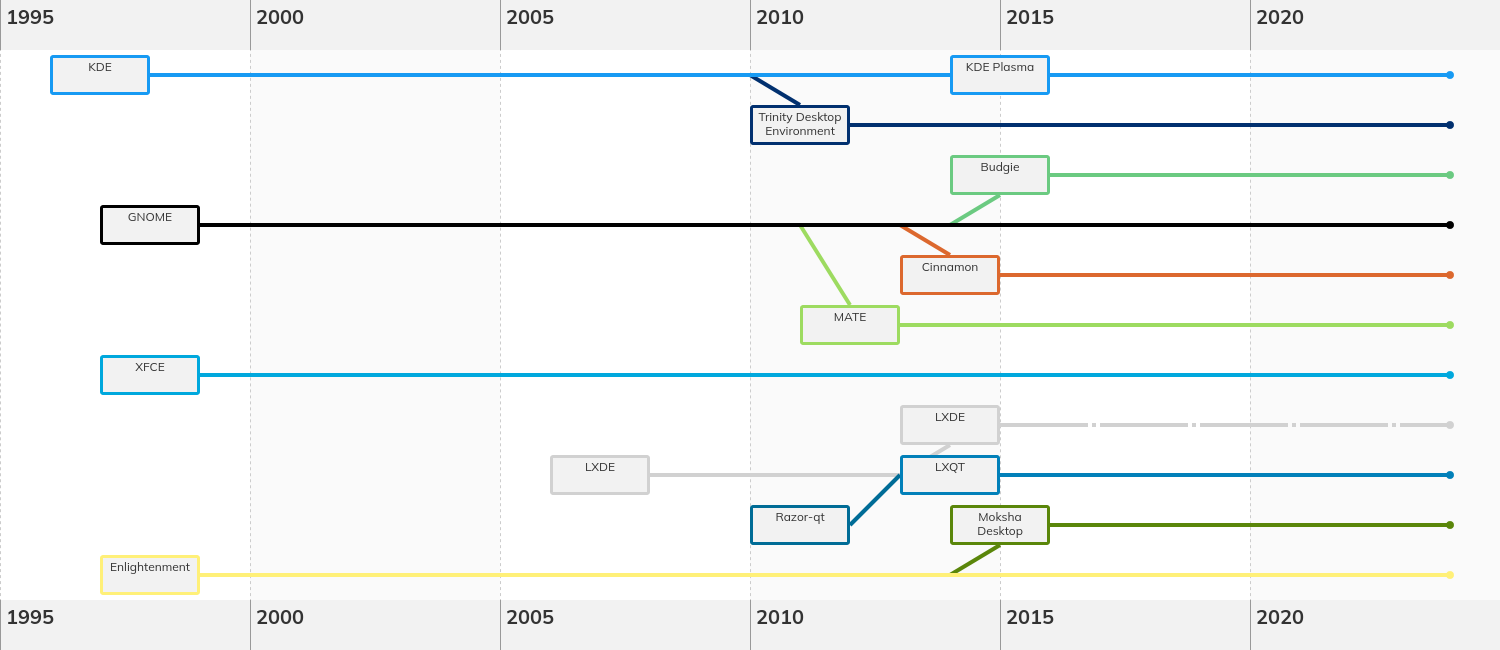
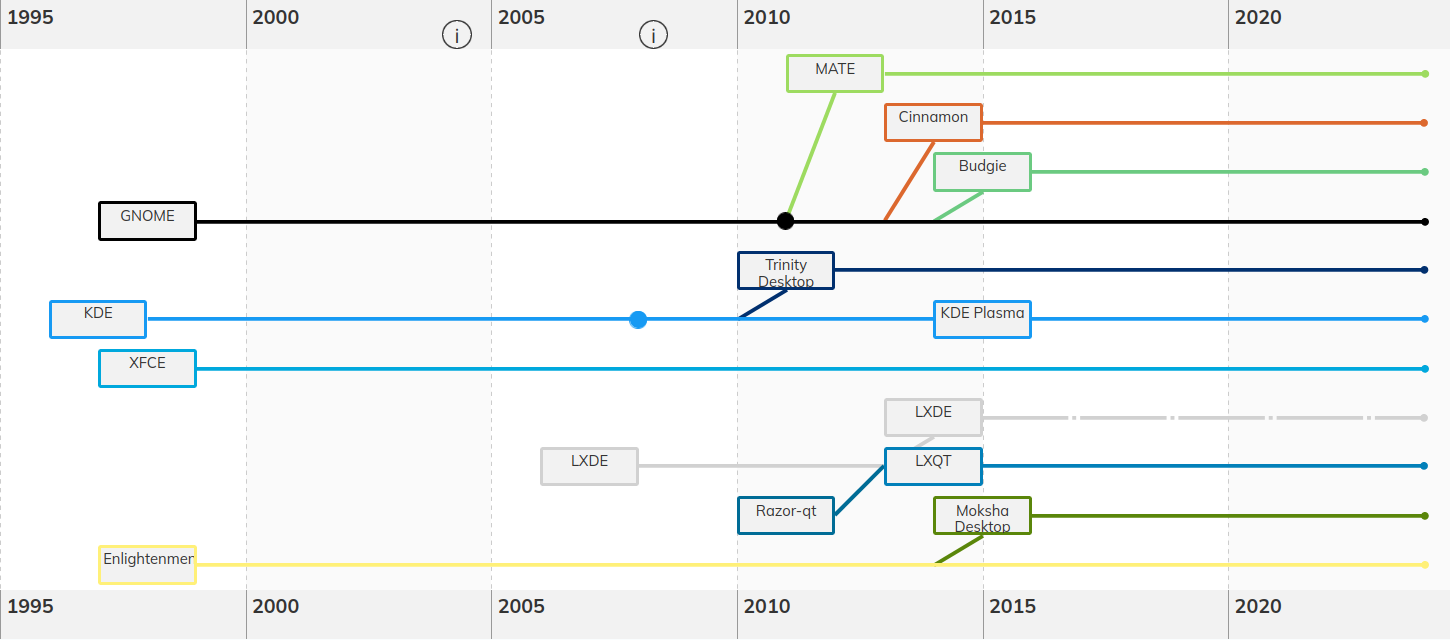
docs: update documentation with events; minor edits

diff --git a/README.md b/README.md
@@ -9,36 +9,39 @@ To use the timeline:
 * Include [`timeline.min.js`](dist/timeline.min.js) and [`timeline.min.css`](dist/timeline.min.js) in your document.
 * Optionally include [`timeline-dark.min.js`](dist/timeline-dark.min.js) to enable the default [dark mode](#dark-mode).
 * Add a `<div>` with `id="diagram"` to your HTML.
-* Add your timeline entries as `<div>` elements within `div#diagram`, with the appropriate `data-` attributes (see [HTML](#html) below).
+* Add your timeline entries and events as `<div>` elements within `div#diagram`, with the appropriate `data-` attributes (see [HTML](#html) below).
 * Instantiate a new Timeline in JS, and call the `create()` method on it.
 
-### Examples
+### Example
 
 Here is an example showing the development of Linux Desktop Environments since the mid-1990s.
 
-Entries are created using HTML `data` attributes, which determine their position and connections when the timeline is instantiated.
+Entries are created using HTML `data` attributes, which determine their position and connections when the timeline is instantiated. Events can also be added, either to a particular entry or as a general event on the timeline.
 
 ```html
 
 <div id="diagram">
+	<!--Timeline entries-->
 	<div id="KDE" data-start="1996" data-become="Plasma" data-colour="#179af3">KDE</div>
 	<div id="Plasma" data-start="2014" data-colour="#179af3">KDE Plasma</div>
 	<div id="Trinity" data-start="2010" data-split="KDE" data-colour="#01306f">Trinity Desktop Environment</div>
-	
 	<div id="Budgie" data-start="2014" data-split="GNOME" data-row="2" data-colour="#6bca81">Budgie</div>
 	<div id="GNOME" data-start="1997" data-row="3" data-colour="#000">GNOME</div>
 	<div id="Cinnamon" data-start="2013" data-split="GNOME" data-colour="#dc682e">Cinnamon</div>
 	<div id="MATE" data-start="2011" data-split="GNOME" data-colour="#9ddb60">MATE</div>
-			
 	<div id="XFCE" data-start="1997" data-colour="#00a8dd">XFCE</div>
-	
 	<div id="LXDE2" data-start="2013" data-split="LXDE" data-irregular="true" data-row="7" data-colour="#d1d1d1">LXDE</div>
 	<div id="LXDE" data-start="2006" data-become="LXQT" data-row="8" data-colour="#d1d1d1">LXDE</div>
 	<div id="LXQT" data-start="2013" data-row="8" data-colour="#0280b9">LXQT</div>
 	<div id="Razor-qt" data-start="2010" data-merge="LXQT" data-row="9" data-end="2013" data-colour="#006c96">Razor-qt</div>
-	
 	<div id="Enlightenment" data-start="1997" data-colour="#fff078">Enlightenment</div>
 	<div id="Moksha" data-start="2014" data-split="Enlightenment" data-colour="#5a860a">Moksha Desktop</div>
+	
+	<!--Events-->
+	<div class="event" data-year="2004">X.org is founded as a fork of XFree86.</div>
+	<div class="event" data-year="2008">The Wayland project was started.</div>
+	<div class="event" data-year="2011" data-target="GNOME">Gnome 3.0 was released.</div>
+	<div class="event" data-year="2008" data-target="KDE">KDE 4 was released.</div>
 </div>
 ```
 
@@ -54,8 +57,10 @@ This is rendered as below:
 
 ![A timeline diagram showing the development of Linux Desktop Environments. Years are shown at intervals along the top and bottom, increasing from left to right. Entries (e.g. KDE, Gnome, XFCE) are depicted with a box, bordered with the entry's brand colour, from which a line extends to the right representing the length of its existence. Some entries split from or merge with others, represented by a connecting line.](./images/example.png)
 
+### Live examples
 
-Timeline.js was originally created for an illustration of left-wing political organisations in Ireland, as part of the Irish Left Archive. For a full-featured live example demonstrating the features documented below, visit the [Timeline of the Irish Left](https://www.leftarchive.ie/page/timeline-of-the-irish-left/).
+* [Electoral Parties in the Republic of Ireland](https://github.com/Aonrud/Irish-Electoral-Parties)
+* [Timeline of the Irish Left](https://www.leftarchive.ie/page/timeline-of-the-irish-left/) on the Irish Left Archive
 
 ## Javascript
 
@@ -87,7 +92,7 @@ By default, entries should be `<div>` elements and the container has the id `#di
 |data-split|No|Another entry ID|If specified, the entry will be shown branching from the specified entry, at the year specified in 'data-start'.|
 |data-merge|No|Another entry ID|If specified, the entry will be connected to the specified entry, at the year specified in 'data-end'.|
 |data-links|No|A space-separated list of entry IDs|If specified, the entry is linked with a dashed line to each entry ID. Useful for looser associations between entries that should not be connected directly.|
-|data-colour|No|A CSS colour hex|The colour of the border around the entry and connections from it. |
+|data-colour|No|A CSS colour value|The colour of the border around the entry and connections from it. |
 |data-irregular|No|true or false|Set to true for entries that are 'irregular' or should not be unbroken from their start to end dates. If set to true, the entry will be drawn with a broken line.|
 
 ### Javascript 
@@ -116,6 +121,33 @@ const example = new Timeline(
 
 example.create();
 ```
+
+## Adding Events
+
+Two kinds of events can be added to the timeline:
+
+1. general events appearing on the date line at the top of the diagram;
+2. entry-specific events, appearing on an entry's own timeline.
+
+These create information points that are expanded by hovering or touching. (See the [example screenshot](#examples) above or the [live examples](#live-examples).) As with entries, they can be added either with HTML `data` attributes or in Javascript.
+
+### HTML
+
+Events are added by creating a `<div>` with the class `event` and the required attributes.
+
+|Attribute	|Required	|Value	|Use	|
+|-----------|-----------|-------|-------|
+|data-year  |Yes|<number> A year| Determines where on the timeline the event appears.|
+|data-target|No|<string> An entry ID| If defined, places the event on an entry's line instead of the top date line.|
+|data-colour|No|A CSS colour value| Defines the colour of the text of the event. For general events (no target entry) this also defines the colour of the information marker on the date line.|
+
+### Javascript
+
+As with entries, events can also be added using an array of objects in Javascript.
+
+Each event must have at least `year` and `content` properties. The content provides the message shown for the event (determined by the inner text of the element when defining events in HTML).
+
+In addition, if a valid entry id is provided in the `target` property, it will be displayed as an entry-specific event.
 
 ## CSS Styling
 
@@ -199,17 +231,17 @@ The provided classes will position the controls in a box in the bottom right cor
 
 ## Entry Positioning
 
-The X axis position of each entry must be manually set by specifing the 'data-start' attribute [^1].  The extent of the entry along the timeline is determined either by the 'data-end' attribute, or extends to the end of the timeline.
+The X axis position of each entry is manually set by specifing the 'data-start' attribute *(**note:** If `data-start` is before the configured start of the timeline, it will be shown at the start with an arrow indicating it pre-exists the period shown)*. The extent of the entry along the timeline is determined either by the 'data-end' attribute, or extends to the end of the timeline.
 
 Specifying the row manually for each entry is not required. However, only some basic tests are performed to choose a suitable row for each entry when it is not specified, so aside from simple examples, it is recommended to manually set 'data-row' at least on a proportion of entries and those with complex links to ensure a sensible layout.
 
 The row is determined in source-code order for each entry if it is omitted. A row is determined as follows:
 
-* Available space, starting from the first row until a space is found.
+* Available space, starting from the centre of the diagram.
 * Connected entries (via 'data-becomes' attribute) must be on the same row.
-* Split and merge entries should aim to be as close to their linked entries as possible, depending on nearest available row with space.
+* Split and merge entries should aim to be as close to their linked entries as possible, depending on nearest available space.
 
-[^1]: If `data-start` is before the configured start of the timeline, it will be shown at the start with an arrow indicating it pre-exists the period shown.
+[^1]: 
 
 ## Javascript Documentation
 
